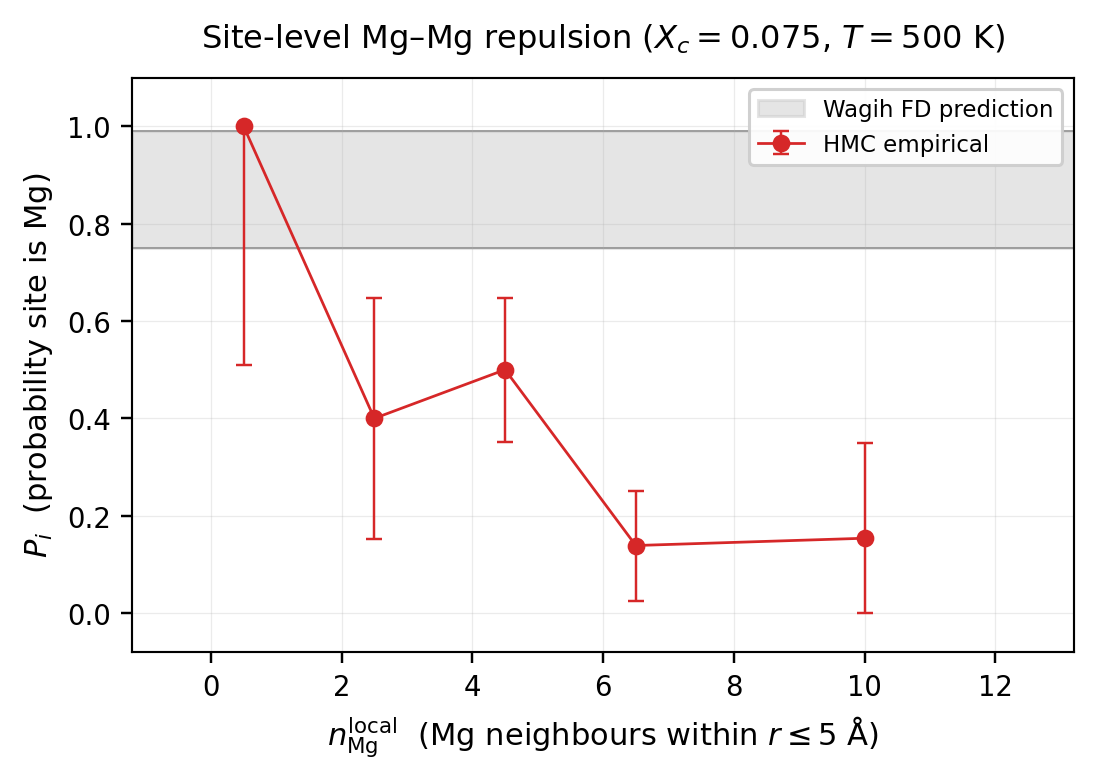
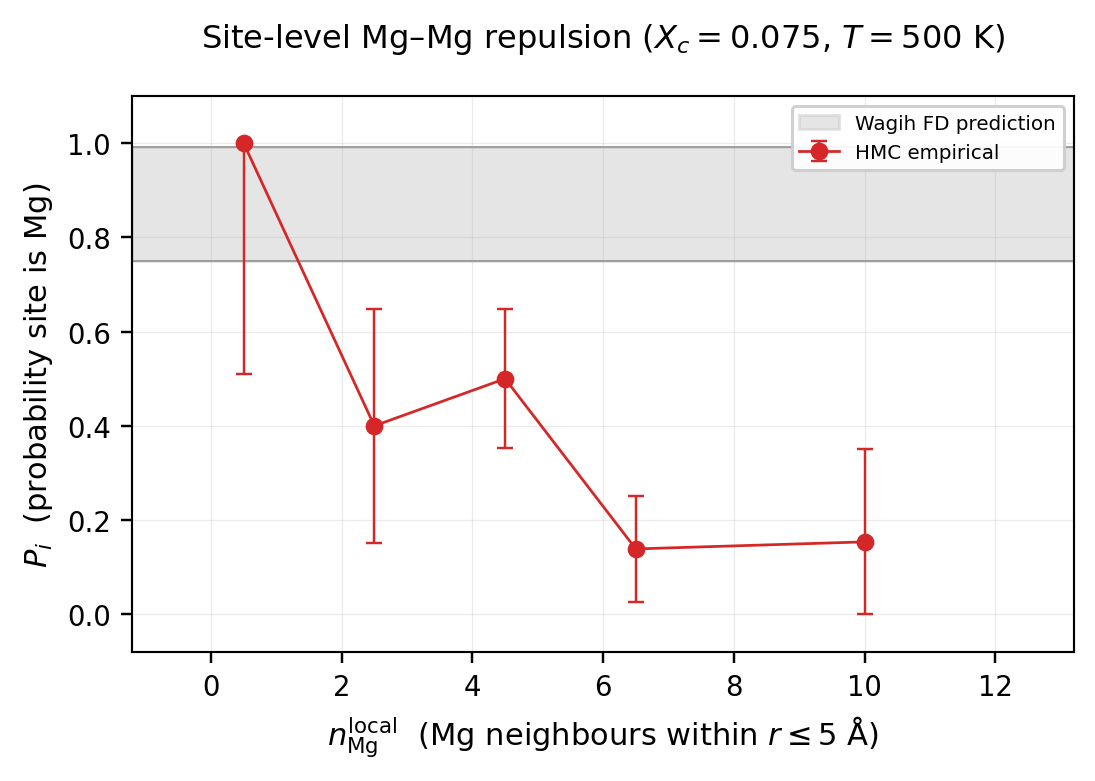
Smaller legend font, more title pad in Fig 3
- legend fontsize 7.5 → 6.5
- title pad 10 → 16

diff --git a/project/scripts/mechanism_repulsion_at_fixed_dE.py b/project/scripts/mechanism_repulsion_at_fixed_dE.py
@@ -170,7 +170,7 @@ def main() -> None:
     ax.set_ylabel(r"$P_i$  (probability site is Mg)", fontsize=10)
     ax.set_title(
         rf"Site-level Mg–Mg repulsion ($X_c={XC}$, $T={T_K:.0f}$ K)",
-        fontsize=10.5, pad=10,
+        fontsize=10.5, pad=16,
     )
     nl_max = max(r["n_local_hi"] for r in rows_fav)
     ax.set_xlim(-1.2, nl_max + 1.2)
@@ -179,7 +179,7 @@ def main() -> None:
     for spine in ax.spines.values():
         spine.set_linewidth(0.7)
     ax.grid(alpha=0.25, lw=0.4)
-    ax.legend(loc="upper right", fontsize=7.5, framealpha=0.92)
+    ax.legend(loc="upper right", fontsize=6.5, framealpha=0.92)
 
     fig.tight_layout(pad=1.4)
     out_png = OUT_DIR / f"{OUT_PREFIX}.png"